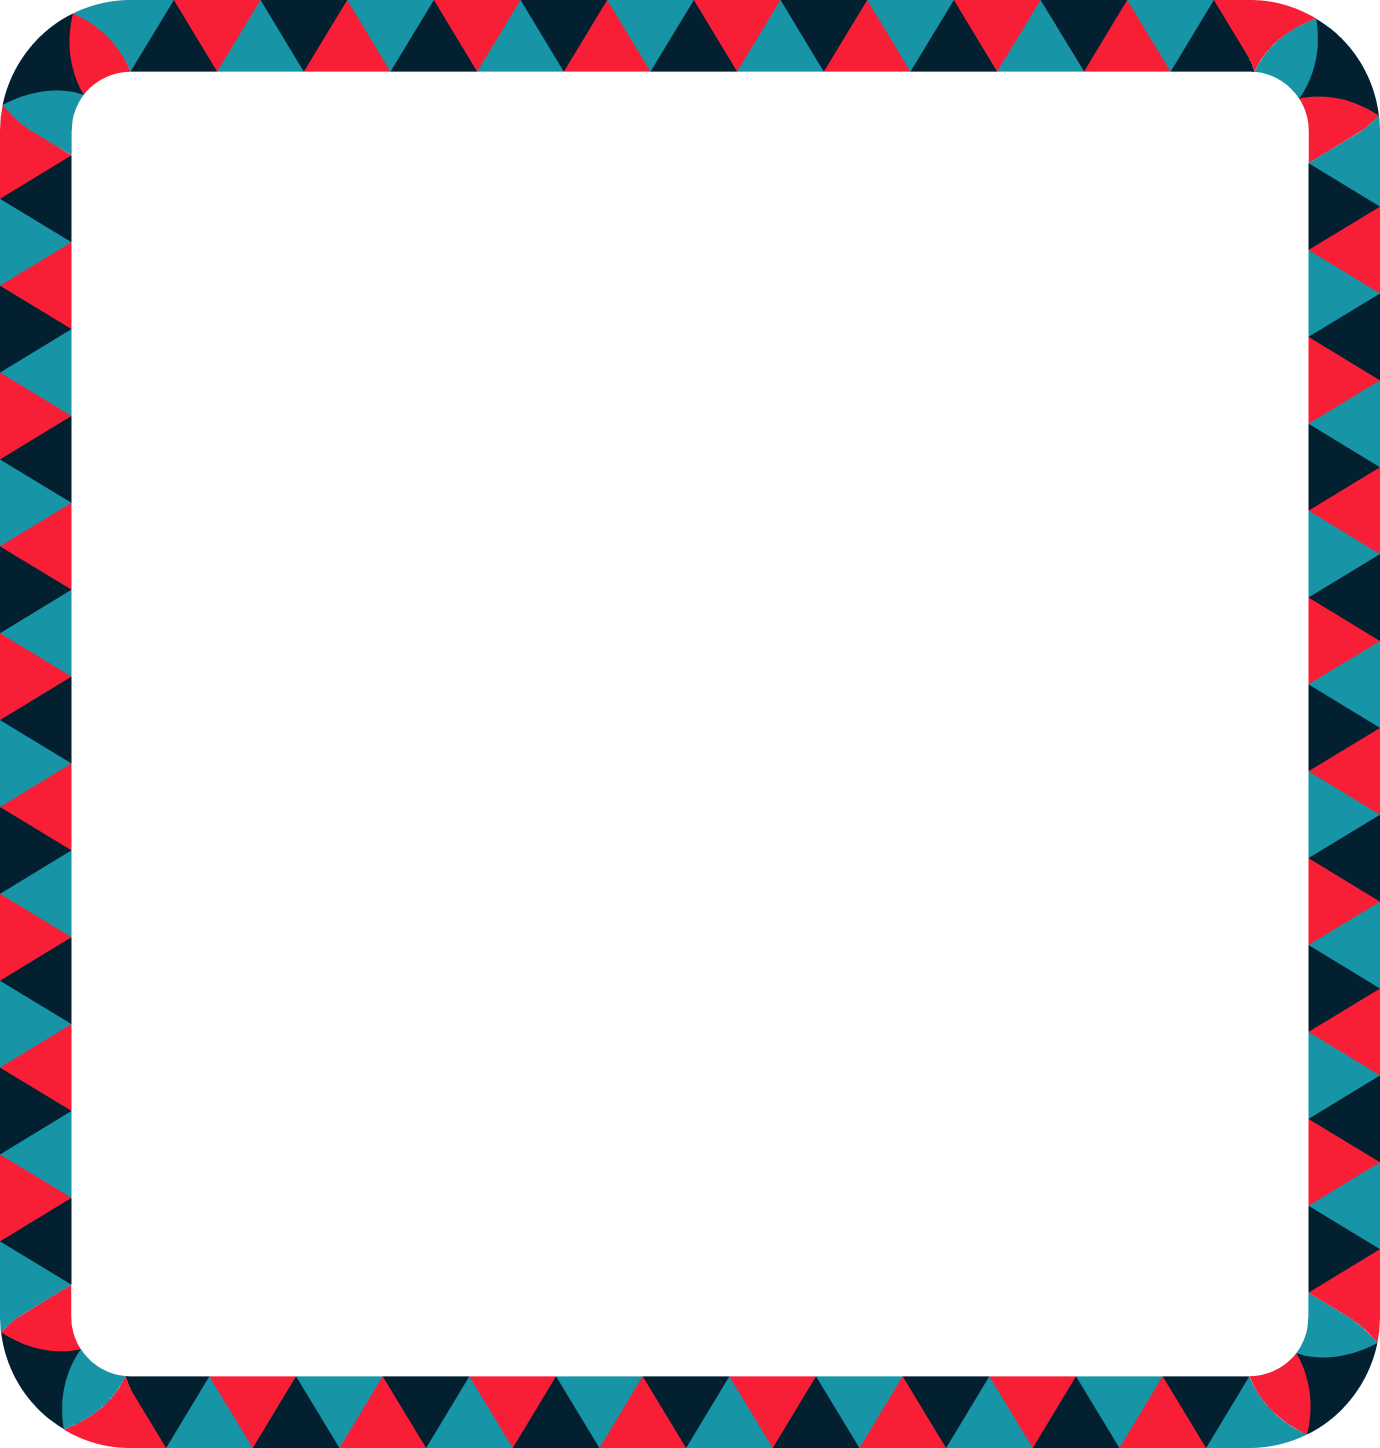
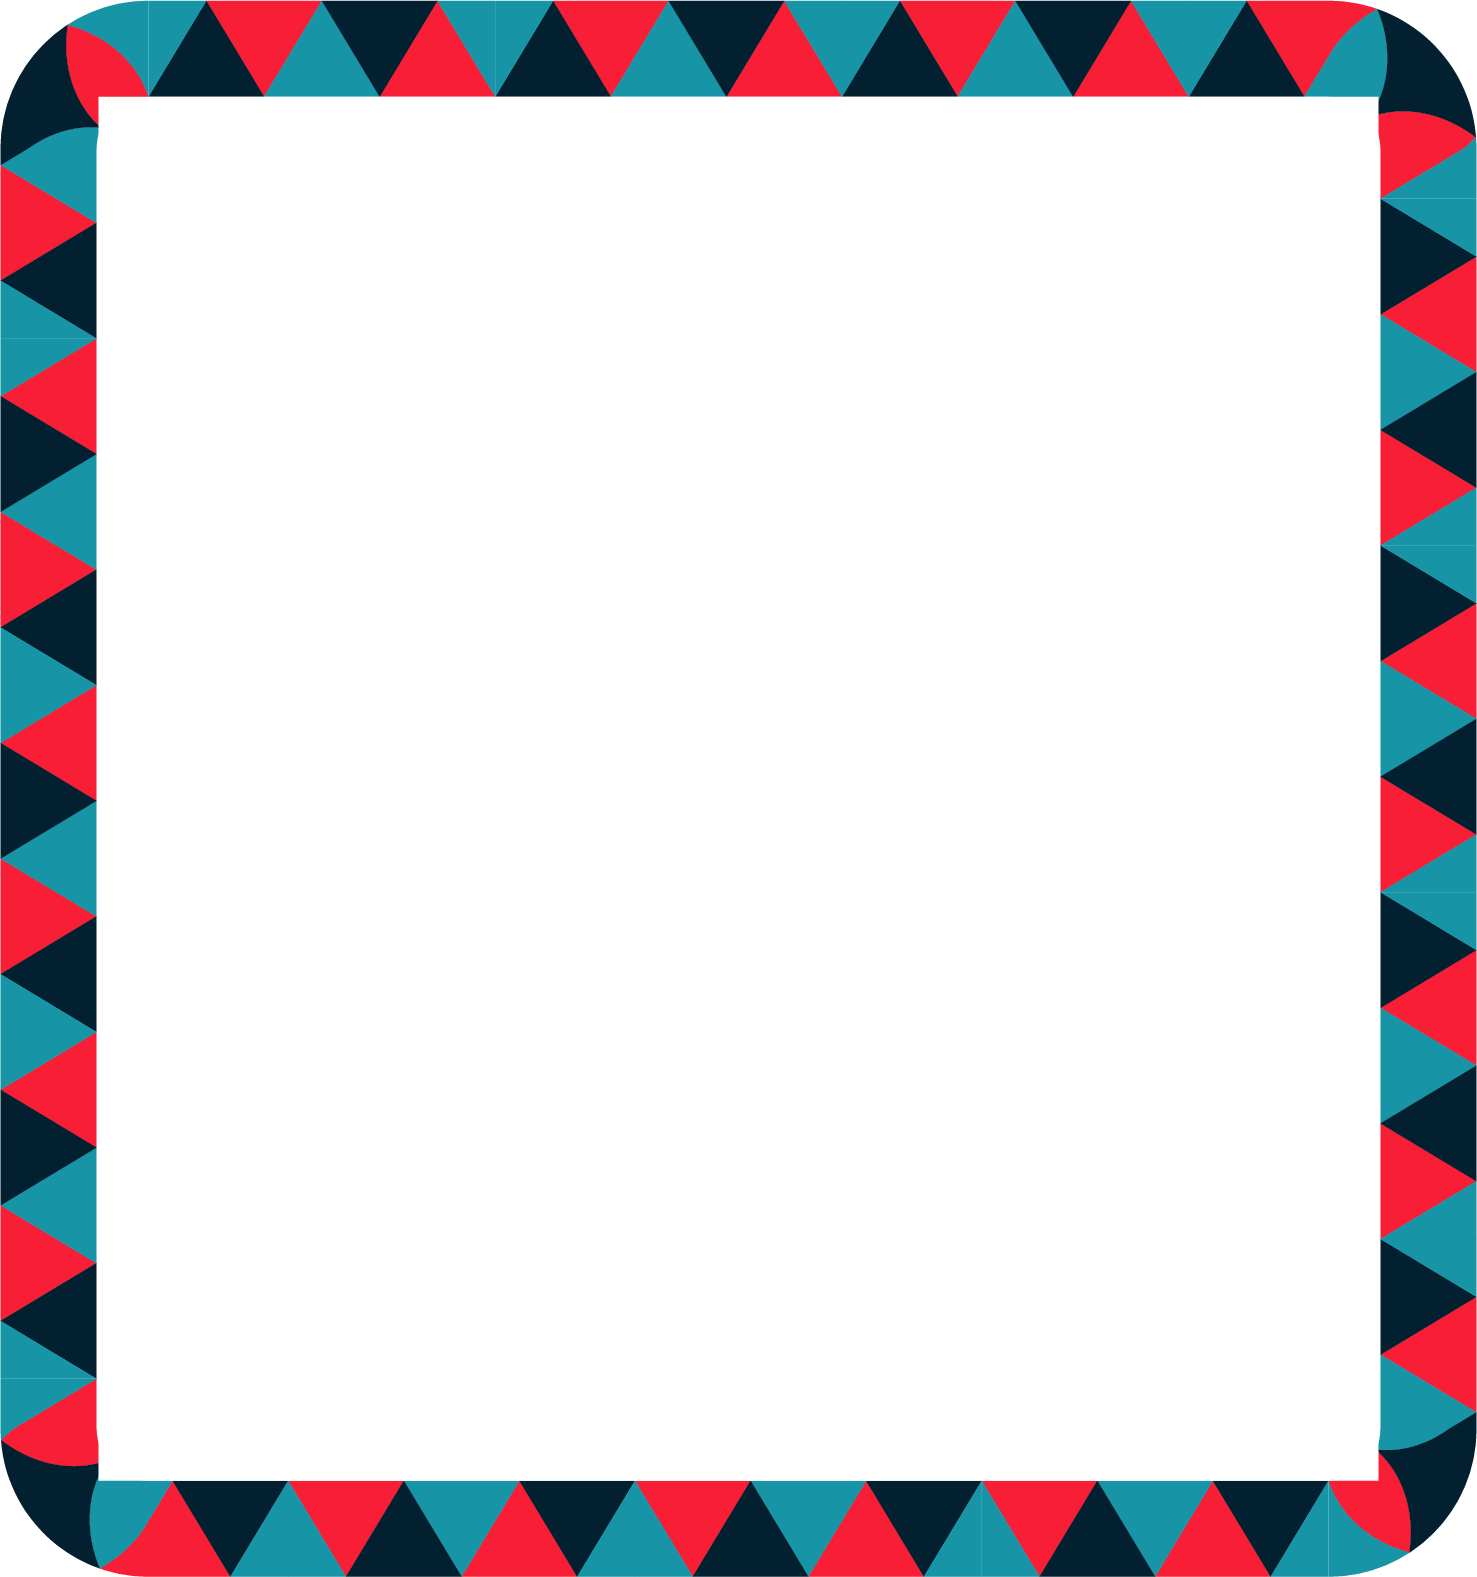
20201021_19:05
20201021_19:05

Changed region(s): [[0.0, 0.0, 1.0, 1.0]]

diff --git a/web_design/aboriginal/css/layout.css b/web_design/aboriginal/css/layout.css
@@ -597,23 +597,23 @@ header.masthead {
 /* section-手機 */
 
 .FRAME_01{
-	width:300px;
-	height:315px;
-	background: url(../images/frame_bg01_t.png) no-repeat center top;
+	width:100%;
+	height:60vh;
+	background:url(../images/frame_bg01_t.png) no-repeat center top;
 	background-size: 100% auto;
 	filter:drop-shadow(3px 3px 10px rgba(3,32,48,0.3));
 	margin: 0px auto;
 }
 
 #about .FRAME_01, #sign-up .FRAME_01{
-	padding: 7px;
+	padding:15px;
 }
 	
 
 .FRAME_02{
-	width:300px;
-	height: 234px;
-	background: url(../images/frame_bg02_t.png) no-repeat center top;
+	width:100%;
+	height:44vh;
+	background:url(../images/frame_bg02_t.png) no-repeat center top;
 	background-size: 100% auto;
 	filter:drop-shadow(3px 3px 10px rgba(3,32,48,0.3));
 	margin: 0px auto;
@@ -683,12 +683,12 @@ h1:before {
 
 /* Content scroll start-手機 */
  #about .content-scroll, #awards .content-scroll, #sign-up .content-scroll{
-    height: 284px;
+    height: 322px;
     overflow-y: scroll;
 }
 	 
  #regulations .content-scroll{
-    height: 198px;
+    height: 230px;
 	overflow-y: scroll;
   }
 
@@ -774,10 +774,10 @@ header.masthead {
 }
 	
 	
-/* section */
+/* section-平板 */
 
 .FRAME_01{
-	width: 100%;
+	width:100%;
 	height: auto;
 	background: url(../images/frame_bg01_t.png) no-repeat center top;
 	background-size: 100% auto;

diff --git a/web_design/aboriginal/index.html b/web_design/aboriginal/index.html
@@ -366,15 +366,15 @@
 	</article>
 	
 	<!-- 必要的js -->
-	<script type="text/javascript" src="https://code.jquery.com/jquery-latest.min.js"></script>
-	<script type="text/javascript" src="js/go.js"></script>
+	<script src="https://code.jquery.com/jquery-latest.min.js"></script>
+	<script src="js/go.js"></script>
 
 
 	<!-- 到各區域的js -->
-	<script type="text/javascript" src="js/amazingcarousel.js"></script>
+	<script src="js/amazingcarousel.js"></script>
 
 	<!-- 隱藏回到TOP的js -->
-	<script type="text/javascript" src="js/spin.min.js"></script>
+	<script src="js/spin.min.js"></script>
 
 	<!-- partial -->
 	<script src="js/script.js"></script>  
@@ -382,6 +382,9 @@
     <!-- Bootstrap core JavaScript -->
     <script src="vendor/bootstrap/js/bootstrap.bundle.min.js"></script>
     
+    <!-- Contact form JavaScript -->
+    <script src="js/jqBootstrapValidation.js"></script>
+    <script src="js/contact_me.js"></script>
 
 
 </body>
